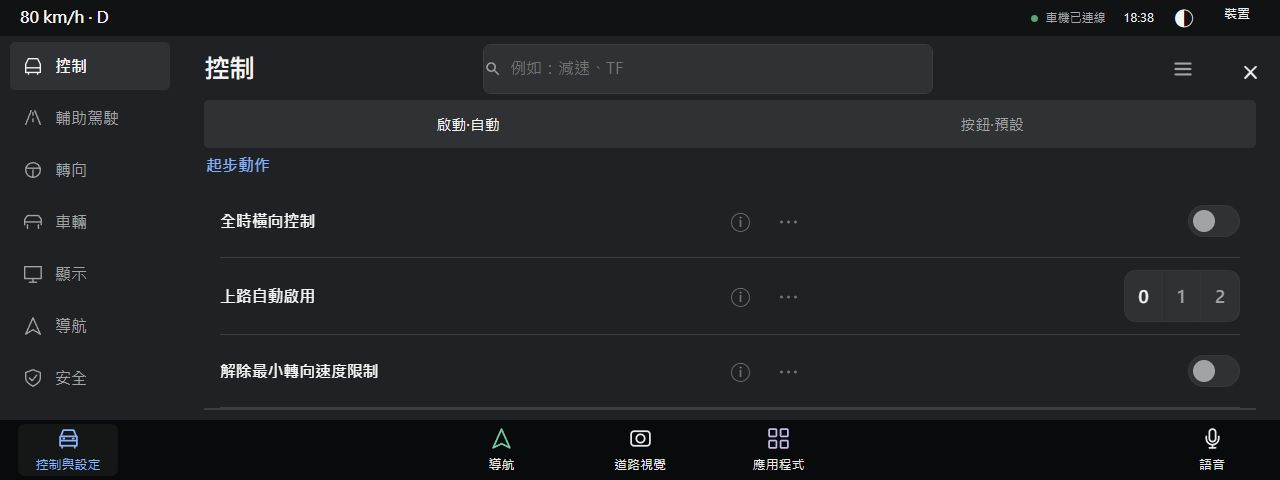
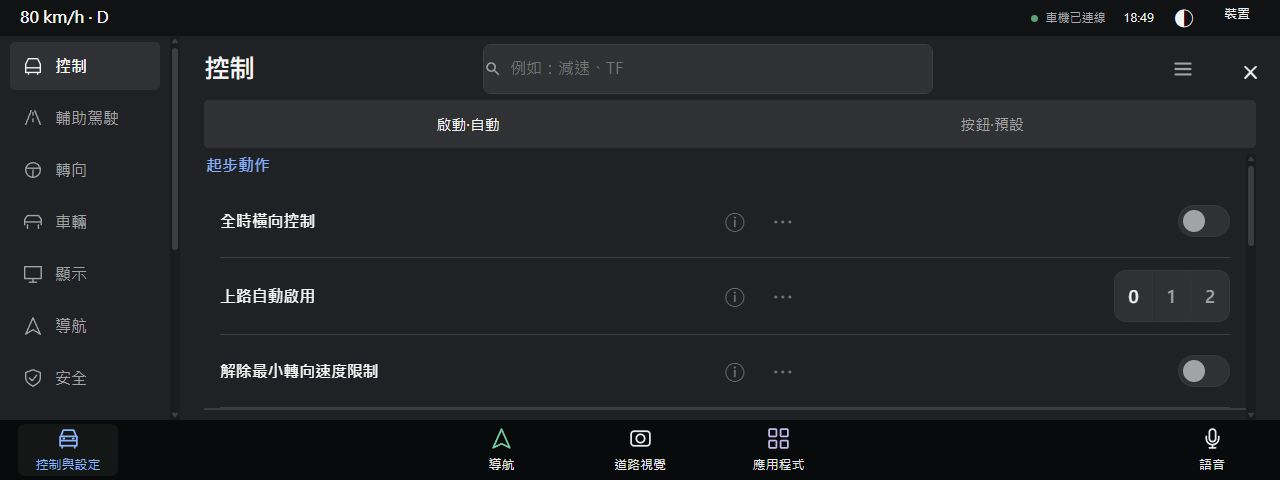
Keep camera-classified objects when opening cockpit road shortcuts
Route preview expansion and road shortcuts to the full Vision renderer instead of the model/radar-only parent canvas. Preserve detection and BEV preferences and camera admission. Add regression coverage from moving camera detections to class meshes beside neutral radar, including expiry.

Validation: 988/990 web tests pass with the same two baseline failures; browser confirms the classified Vision canvas remains visible after road shortcut. APK native inputs are identical to verified 0.4.0 source.

Docs-Not-Needed: Web-only presentation routing; no vehicle settings or control behavior changes. Updated localized Cockpit guide.

diff --git a/openpilot/selfdrive/carrot/web/src/entries/cockpit.js b/openpilot/selfdrive/carrot/web/src/entries/cockpit.js
@@ -81,7 +81,9 @@ for(const [id,key] of [['detectionObjects','vision_object_detection'],['detectio
 $('searchNav').onclick=()=>{try{nav.contentDocument.body.classList.toggle('search-open');nav.contentDocument.getElementById('query').focus();}catch{status('請先等待導航頁載入。');}};
 $('appsButton').onclick=()=>$('apps').showModal();
 document.querySelectorAll('[data-panel]').forEach(b=>b.onclick=()=>{const next=b.dataset.panel;const fromApps=b.closest?.('#apps');if(fromApps)$('apps').close();panel(!fromApps&&next==='setting'&&view==='setting'?primary:next);});
-function expand(){$('apps').close();document.body.classList.toggle('scene-full');$('sceneMode').classList.toggle('selected',document.body.classList.contains('scene-full'));}
+// Every road-view entry uses the same camera/classification renderer. The old
+// parent-only expansion had model/radar data but no classified camera objects.
+function expand(){$('apps').close();panel('vision');}
 $('expand').onclick=expand;$('sceneMode').onclick=expand;
 let appearance=readAppearance(localStorage),appliedAppearance=null,appliedNight=null;
 function applyAppearance(){

diff --git a/tools/carrot_android/COCKPIT.md b/tools/carrot_android/COCKPIT.md
@@ -12,8 +12,9 @@
 
 - 控制與設定、工具及行車紀錄使用完整寬度。設定去除重複標題與快捷卡，保留分類、分頁、搜尋、原始輸入及所有確認；分類與設定各自捲動。主要操作至少48像素，設定列文字加大，按「ⓘ」展開完整繁中說明；「⋯」仍可開詳細指南、熱門值與修改歷史。
 - 道路主畫面使用集中車速／檔位／道路速限／巡航設定，減少重複儀表與常駐文字。胎壓、導航狀態與結束當前導航移到右上「車況」。沒有目的地或地圖影像時隱藏空白小地圖；導航頁與最愛完整保留。
-- 底列保留控制與設定、導航、道路視覺、應用程式、語音五項。其餘車況、駕駛模式、原生道路概覽、全螢幕、行車紀錄、工具／診斷、顯示／字體、裝置與 App 更新集中在應用程式。既有自訂儀表位置、大小及進階影像工具可從視覺設定重新開啟，偏好不被重設。
+- 底列保留控制與設定、導航、道路視覺、應用程式、語音五項。其餘車況、駕駛模式、道路視覺捷徑、全螢幕、行車紀錄、工具／診斷、顯示／字體、裝置與 App 更新集中在應用程式。既有自訂儀表位置、大小及進階影像工具可從視覺設定重新開啟，偏好不被重設。
 - 修正只顯示3D道路、尚未啟動相機時可能漏訂閱 `modelV2`／`radarState`／校正資料的缺口。可見座艙取得單一 HUD／overlay 訂閱，離開、暫停、背景、回放或更換頁面時釋放；不會因此啟動相機。未分類原生目標使用較清楚的中性圓圈及距離，不能當成已辨識汽車。
+- 修正「道路視覺」捷徑與左側預覽放大會切到另一套僅有模型／雷達的繪圖，導致相機分類物件從畫面消失。所有道路入口現在共用完整 Carrot Vision，保留原有辨識開關、已連接影像及 BEV 偏好；不會因選單入口不同退回只有圓圈的繪圖。有效相機分類的行人、車輛仍使用各自立體圖形；未知雷達目標不會因此被強制改成車輛。此補充為車機網頁修正，0.4.0 APK 原生輸入與已驗證產物相同。
 
 ### 看不到其他車輛、機車或行人時
 
@@ -25,7 +26,7 @@
 
 另一位使用者有物件而本機沒有，可能是相機、上述開關、WebView、模型載入或校正／投影條件不同；畫面會提供當下狀態，不能僅憑照片斷定原因。辨識仍只用於顯示，不影響轉向、巡航或煞停；保留前方視野、未知雷達目標、過期資料清除及既有分類限制。沒有新增環車攝影機或 Tesla 專有感知模型，機車停等區與停止線仍未提供可部署的辨識模型。
 
-驗證：完整網頁988項中986通過；2項既有失敗仍是投影浮點數末位及 Vision 測試缺少 `isCarrotVisionParked`。3項 HTTP／WebSocket 測試通過。新增測試涵蓋單一訂閱及釋放、背景／回放隔離、明確開關與相機操作、模型失敗重試及舊回呼拒收。1280×480及390×844瀏覽器合成資料確認底列貼底、無橫向溢出、全寬設定、繁中搜尋及說明；測試伺服器嚴格只傳送要求的服務，確認未啟動相機仍訂閱模型／雷達。這些不等於實體 Android 盒子、實車或夜雨辨識驗收。
+驗證：完整網頁990項中988通過；2項既有失敗仍是投影浮點數末位及 Vision 測試缺少 `isCarrotVisionParked`。3項 HTTP／WebSocket 測試通過。新增測試涵蓋單一訂閱及釋放、背景／回放隔離、明確開關與相機操作、模型失敗重試、舊回呼拒收、道路入口共用分類流程，以及新影格行人／車輛分類的立體繪圖與過期清除。1280×480及390×844瀏覽器合成資料確認底列貼底、無橫向溢出、全寬設定、繁中搜尋及說明；測試伺服器嚴格只傳送要求的服務，確認未啟動相機仍訂閱模型／雷達。這些不等於實體 Android 盒子、實車或夜雨辨識驗收。
 
[1 lines of base64/hex data omitted]
 

diff --git a/AGENTS.md b/AGENTS.md
@@ -11,7 +11,12 @@
   unknown/off/wait/loading/failure/zero/stale/calibration, no fabricated meshes.
   Explicit local retry resets only enabled worker failures, rejects late results,
   retains CPU/TTL/backpressure guards. Neutral native circles remain unclassified.
-  988 web tests:986 pass, same2 baseline failures;3 HTTP pass. Synthetic1280x480
+  Road shortcuts/preview expansion must call panel('vision'), never parent-only
+  scene-full (that renderer has no camera classification and drops the meshes).
+  All entries share the original classified scene; preserve opt-in/BEV/camera.
+  Camera-result-to-mesh regression checks people/cars moving across frames beside
+  neutral native radar and expiry. 990 web:988 pass, same2 baseline;3 HTTP pass.
+  Synthetic1280x480
   and390x844 checks only; actual Android/night-road acceptance remains pending.
   Published0.4.0 native source9c179b55; CI44067294920 passed v2/v3 verification.
   SHA256 a406e93ba24e7497bf09f40153147d3c40f1eb086bb26cfba68b6dffb6e9bf95.
